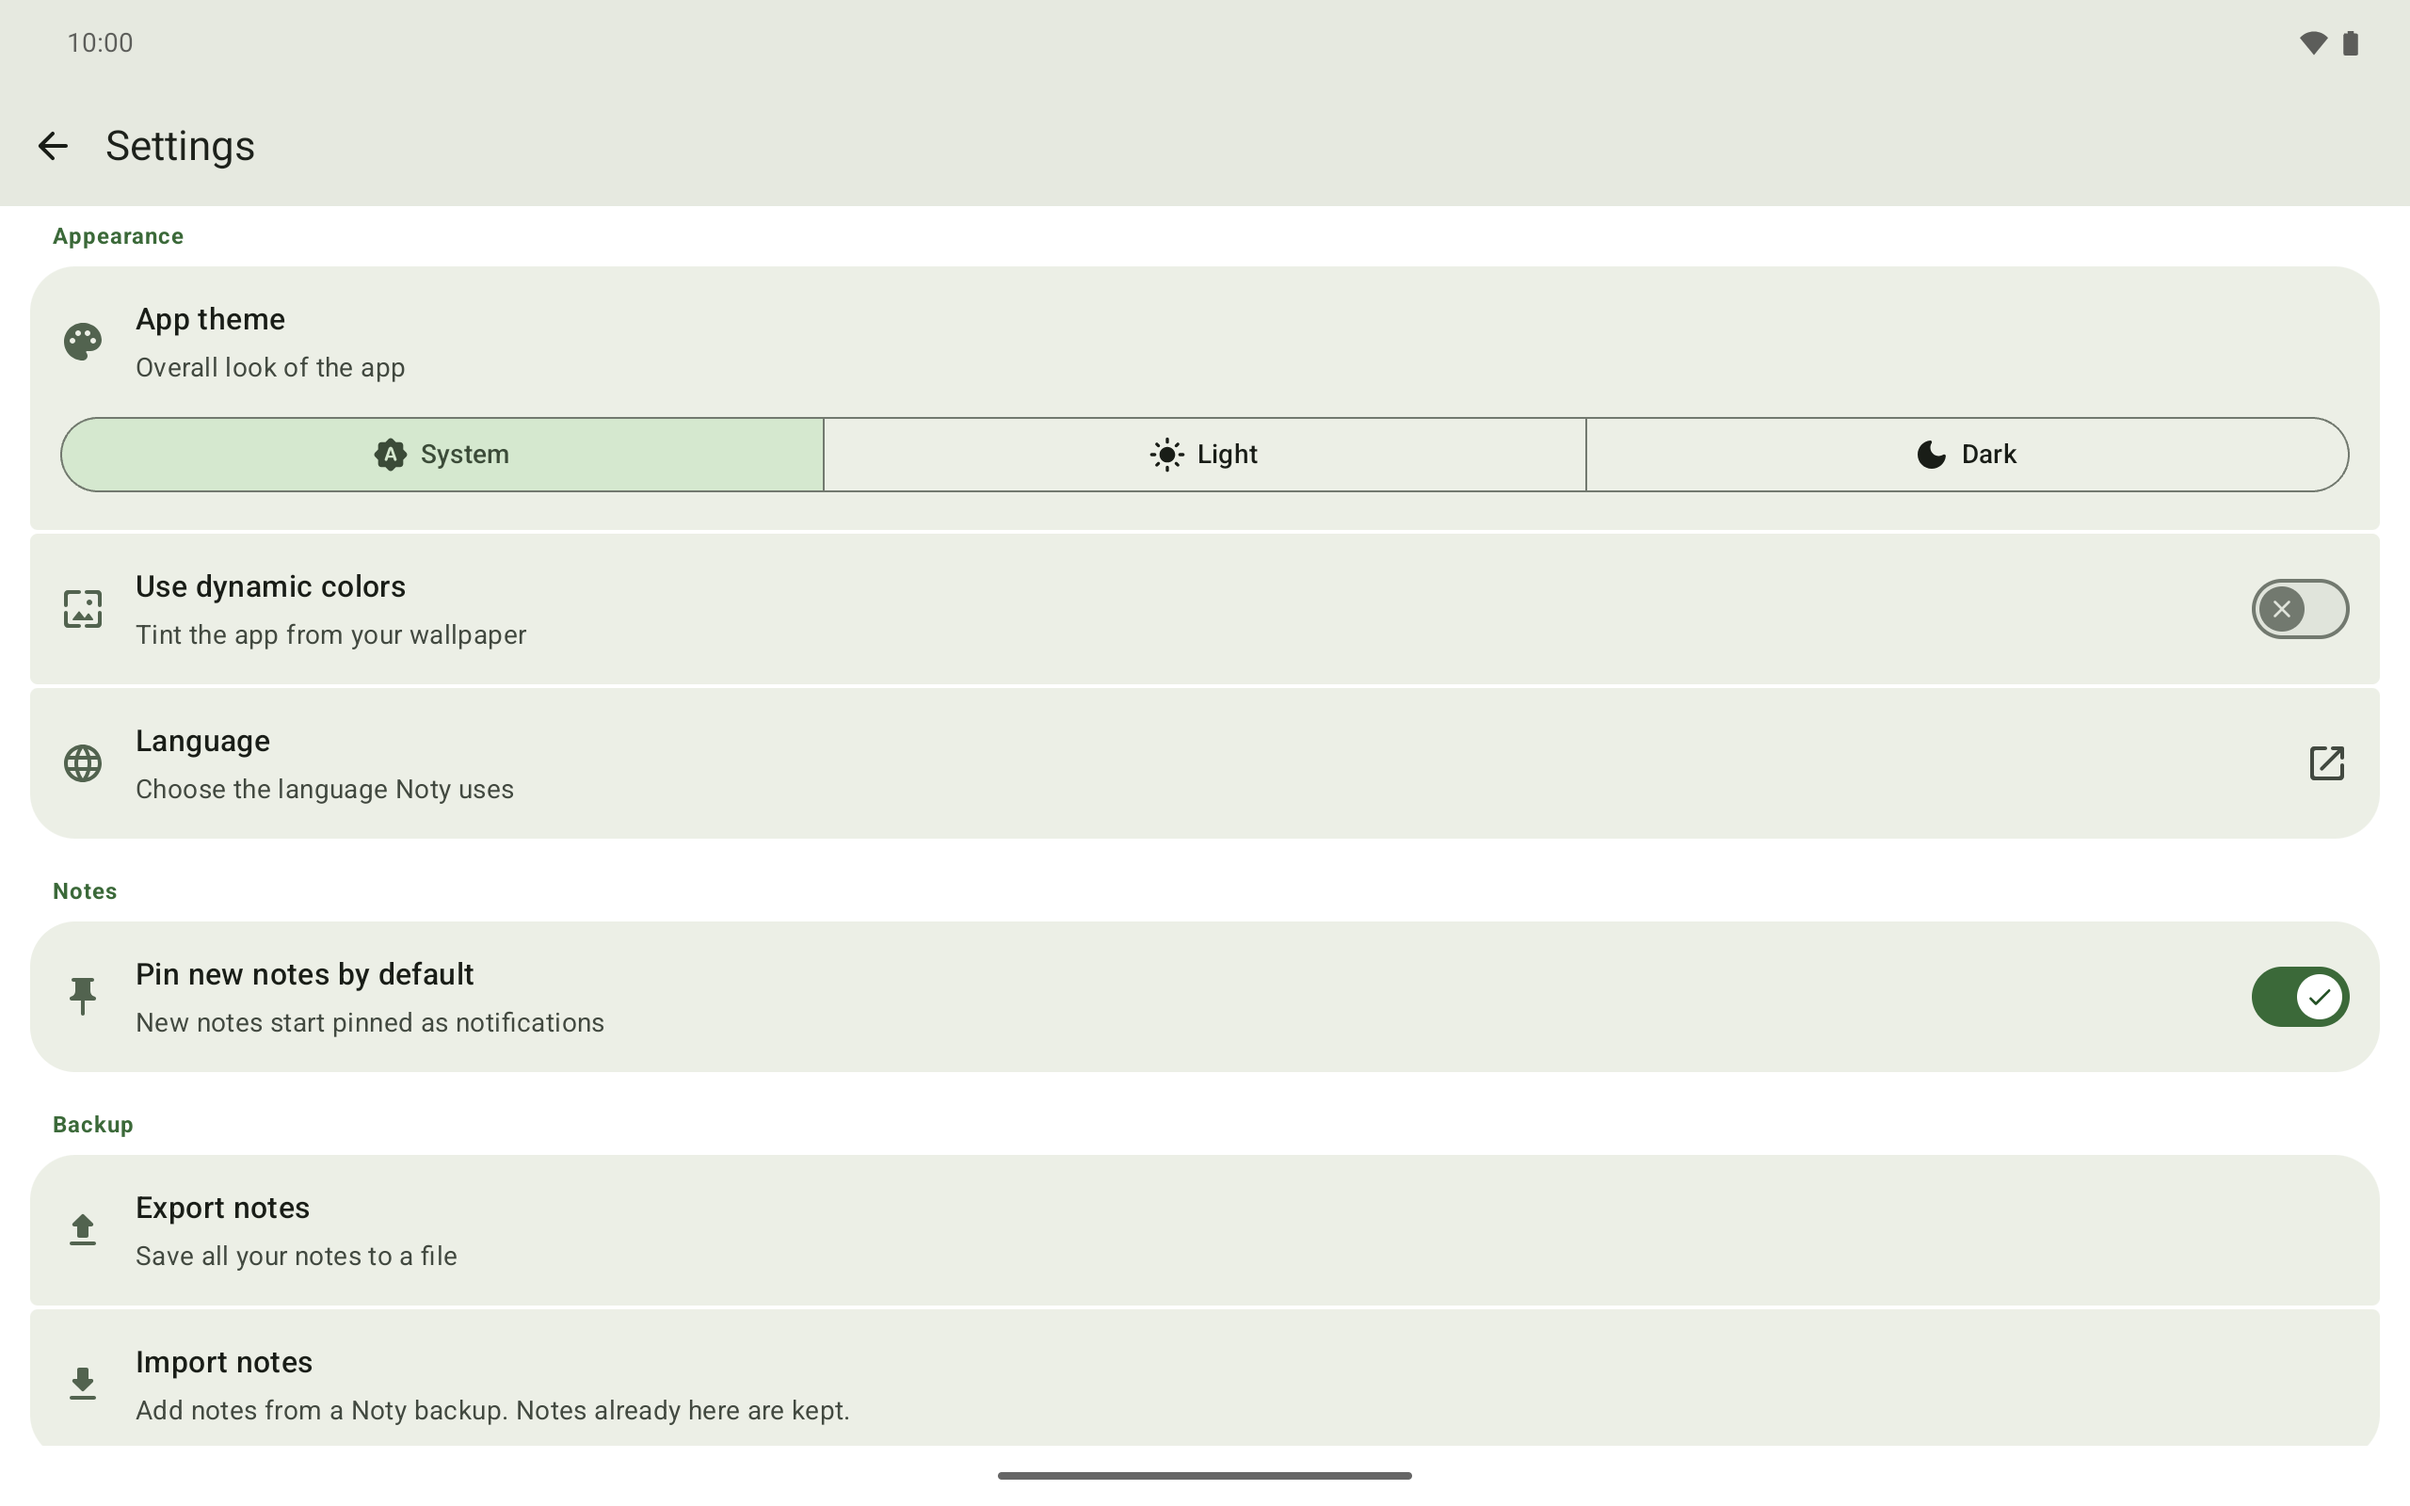
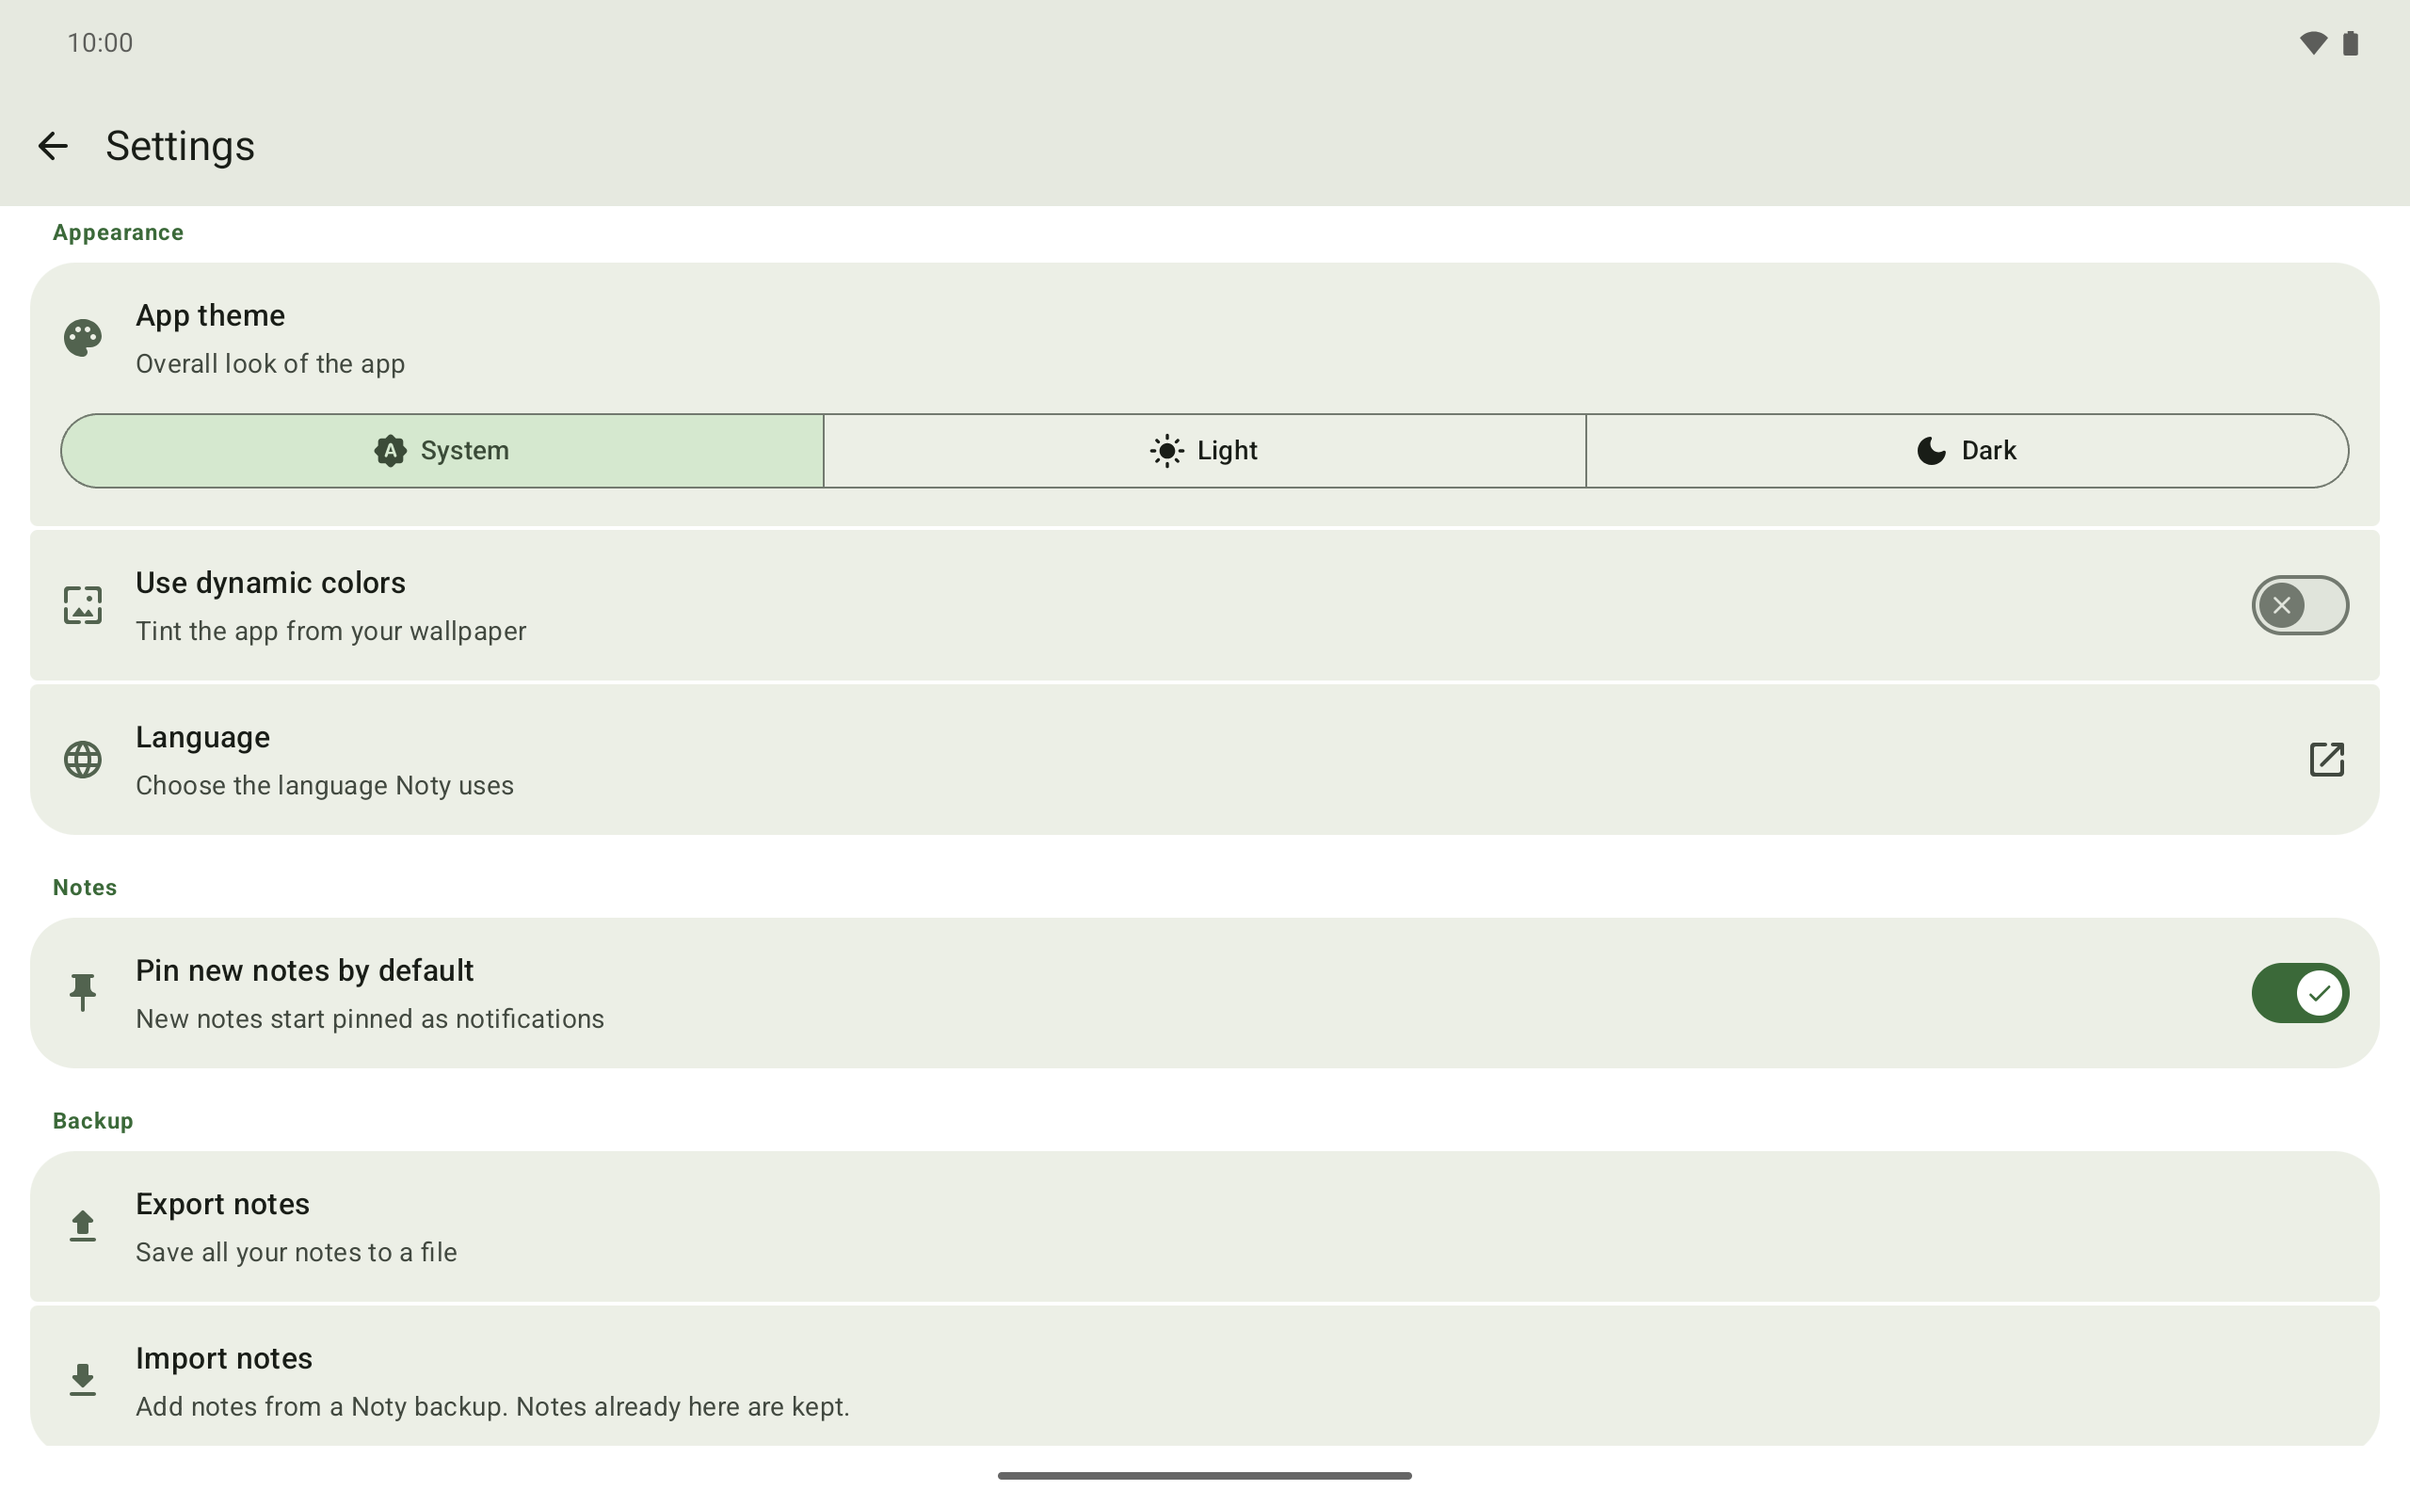
chore(release): v1.0.8
- Bump versionCode to 9 and versionName to 1.0.8
- Add the 1.0.8 CHANGELOG entry and the en-US/zh-CN store changelogs
- Retake the phone, 7" and 10" screenshots for the full-screen editor and
  pin scheduling: notes list with a scheduled note, notification shade,
  editor on a scheduled note, and Settings. Dynamic color off so the
  app's own theme shows
- Store descriptions: replace the Reminders section with Pin Later,
  mention the editor's discard prompt, and reword the startup and exact
  alarm permissions for scheduling
- seed_notes.ps1: seed four notes, one scheduled for 9:00 AM tomorrow

diff --git a/CHANGELOG.md b/CHANGELOG.md
@@ -1,3 +1,24 @@
+## [1.0.8] - 2026-11-27
+
+### Added
+- Schedule a note to pin later. A note is now unpinned, pinned, or scheduled to pin at a set time, never both pinned and scheduled. At that time it is pinned and posted once with an alert, then stays pinned like any other note. In the editor, Pin is a one-tap toggle and a clock sets a time. Once a time is set, a menu offers Don't pin, Pin now, or Pin later. Scheduled notes show a clock and their time on the list, as "Today, 4:24 PM", "Tomorrow, 9:00 AM" or a date. The alert channel is renamed "Scheduled notes" and keeps your existing settings (#104)
+- A full-screen note editor replaces the bottom sheet. It has room for long text, and the description fills the screen and scrolls. Close, back and the back gesture ask before discarding unsaved changes. An existing note can be deleted from the editor. Save, pin and schedule sit in a floating toolbar above the keyboard (#96)
+- Czech translation, contributed by TomawsCZ (#105)
+- Complete Spanish translation (#94)
+
+### Improved
+- Complete German translation (#90)
+- Long-pressing a note toggles its pin again, and TalkBack announces it as "Pin note" or "Unpin note" (#96)
+- Settings switches are announced by screen readers as switches with their on/off state (#89)
+
+### Fixed
+- With dynamic color on a light theme, the check on a turned-on switch was invisible (#89)
+- Tapping ✓ on an unchanged note no longer rewrites it or re-posts its notification (#96)
+
+### Changed
+- Updated the Android Gradle Plugin to 9.5.1, Gradle to 9.9.1, KSP to 2.3.13 and kotlinx-serialization-json (#85, #86, #92, #93)
+- The release workflow passes the secrets the Google Play upload needs (#88)
+
 ## [1.0.7] - 2026-11-07
 
 ### Added

diff --git a/README.md b/README.md
@@ -34,7 +34,7 @@ Thank you! This helps us reach far more users than F-Droid and GitHub alone.
 <p align="center">
   <img src="fastlane/metadata/android/en-US/images/phoneScreenshots/1.png" width="200" alt="Notes list" />
   <img src="fastlane/metadata/android/en-US/images/phoneScreenshots/2.png" width="200" alt="Notes pinned in the notification shade" />
-  <img src="fastlane/metadata/android/en-US/images/phoneScreenshots/3.png" width="200" alt="Add note" />
+  <img src="fastlane/metadata/android/en-US/images/phoneScreenshots/3.png" width="200" alt="Note editor with a scheduled pin" />
   <img src="fastlane/metadata/android/en-US/images/phoneScreenshots/4.png" width="200" alt="Settings, with backup export and import" />
 </p>
 
